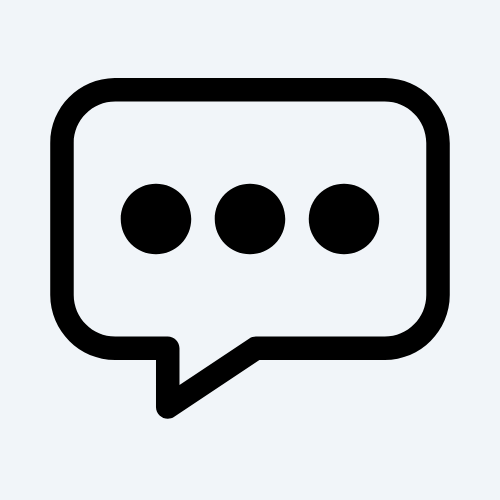
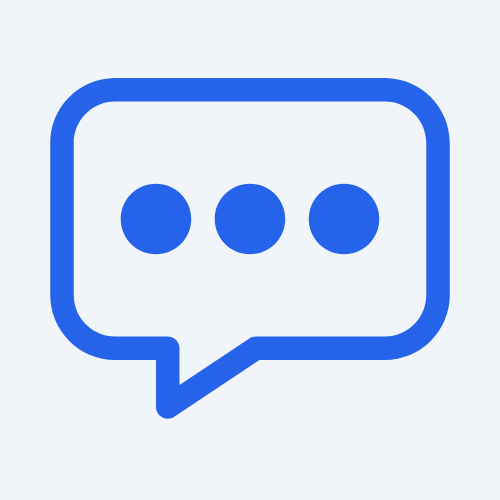
Modificamos estetica de categorias las estrellas

diff --git a/frontend/src/views/landingPage.vue b/frontend/src/views/landingPage.vue
@@ -175,7 +175,6 @@ import Footer from '@/components/Footer.vue';
 </template>
 
 <style scoped>
-/* 1. ESTRUCTURA GENERAL */
 main {
   background: none;
   padding: 0;
@@ -183,7 +182,6 @@ main {
   flex-direction: column;
 }
 
-/* 2. SECCIÓN HERO */
 .hero {
   background: linear-gradient(to bottom, #f0fdff 0%, #ffffff 100%);
   padding: 5rem 2rem;
@@ -303,7 +301,6 @@ h1 {
   height: 20px;
 }
 
-/* 3. SECCIÓN FEATURES */
 .features {
   background-color: #ffffff;
   width: 100%;
@@ -407,7 +404,7 @@ h1 {
 }
 
 .categoria-tarjeta {
-  border: 2px solid #d9dbe0;
+  border: 2px solid #eff6ff;
   border-radius: 12px;
   padding: 2rem;
   display: flex;
@@ -420,7 +417,7 @@ h1 {
 }
 
 .categoria-tarjeta p:first-child {
-  background-color: #d9dbe0;
+  background-color: #eff6ff;
   width: 60px;
   height: 60px;
   display: flex;
